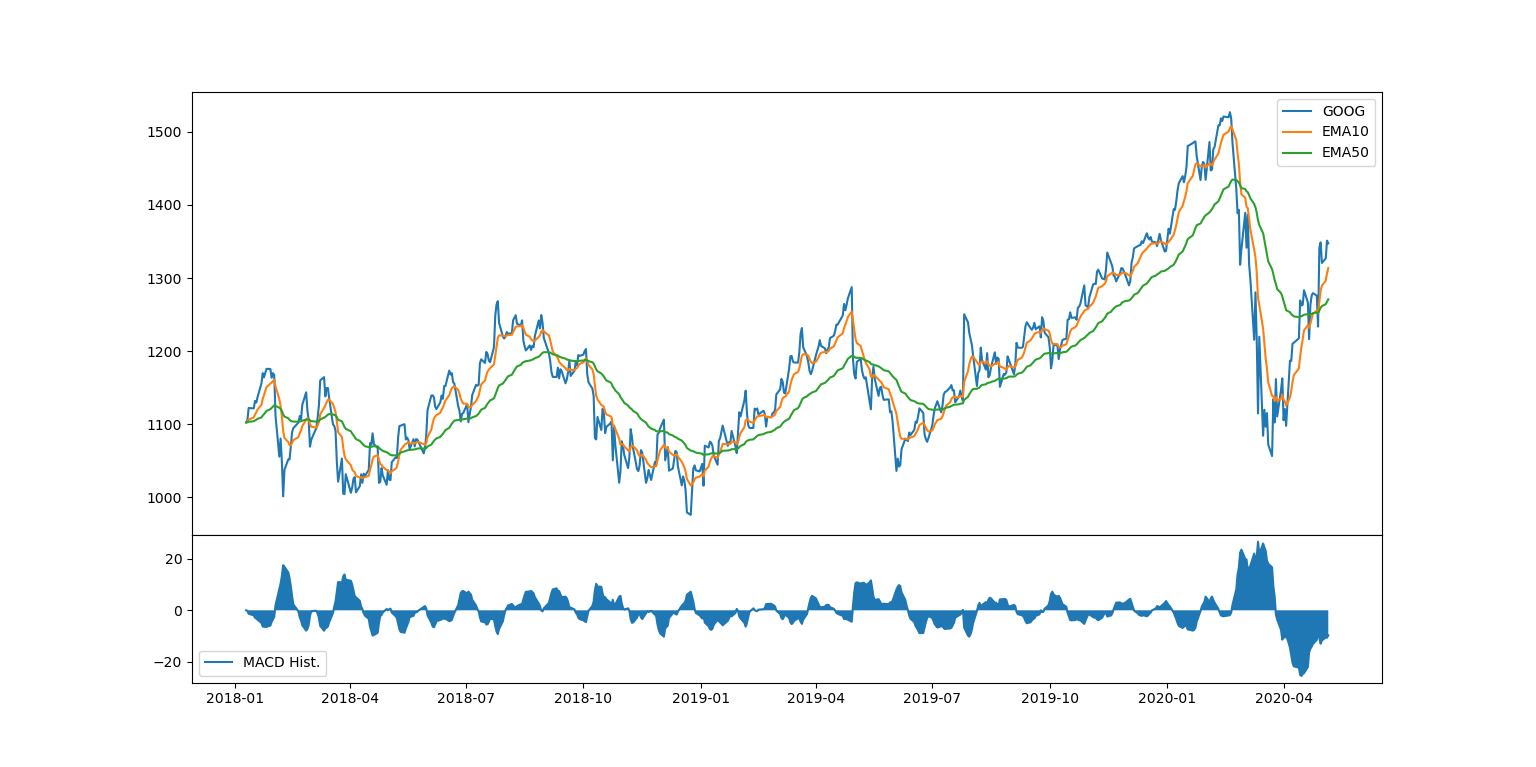
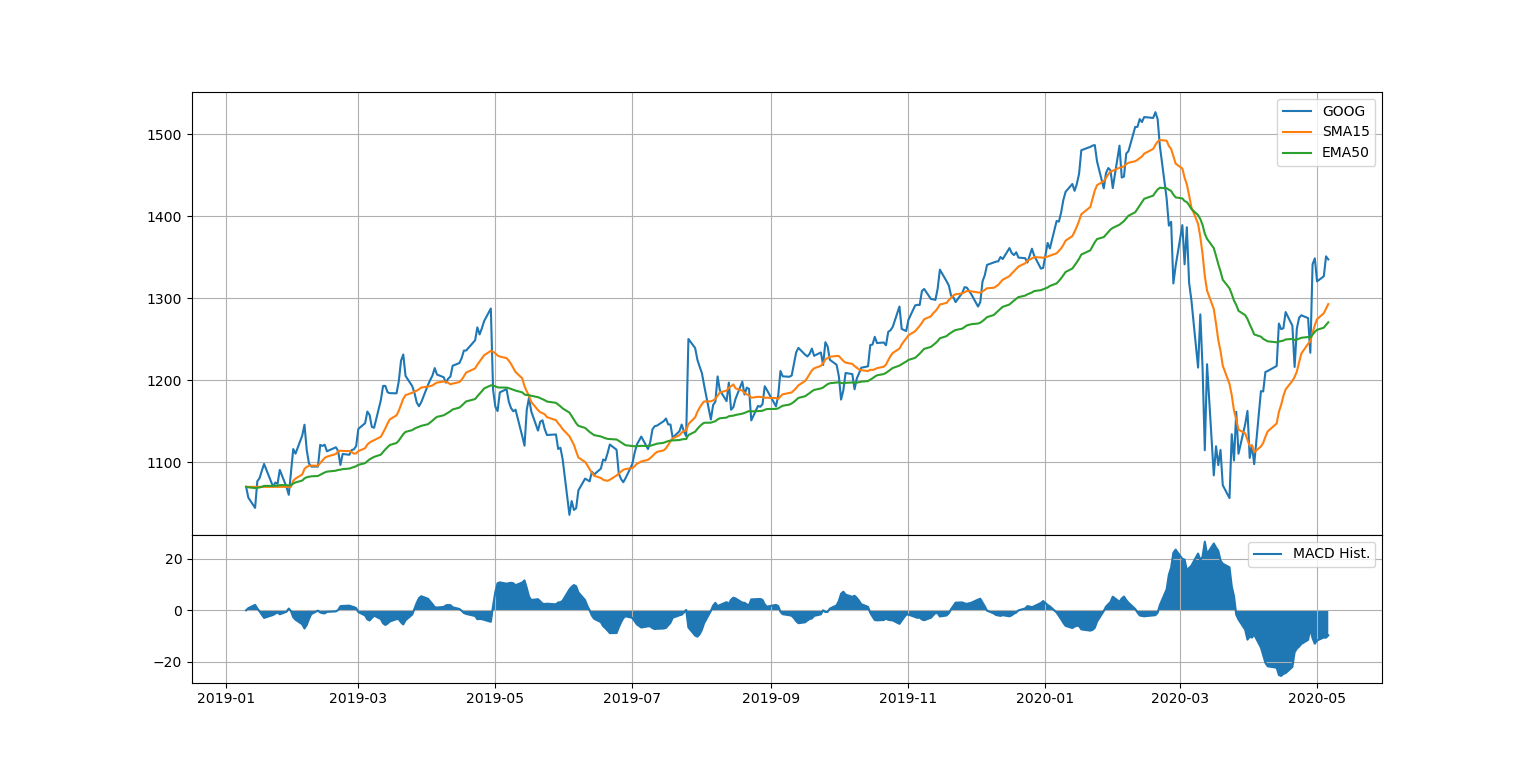
Add files via upload

diff --git a/StockViewer.py b/StockViewer.py
@@ -128,18 +128,19 @@ class view:
 
          fig, (ax1, ax2) = plt.subplots(2, 1, sharex=True, figsize=(6, 6), gridspec_kw={'height_ratios': [3, 1]})
          
-         ax1.plot(self.data.index , self.data['Close'] , '-' , label=self.stock)
+         ax1.plot(self.data.index , self.data['Close'] , label=self.stock)
 
          for i in self.plotsSMA:
 
-            ax1.plot(self.data.index , self.data[i] , '-' , label=i.upper())
+            ax1.plot(self.data.index , self.data[i] , label=i.upper())
 
          for i in self.plotsEMA:
 
-            ax1.plot(self.data.index , self.data[i] , '-' , label=i.upper())
+            ax1.plot(self.data.index , self.data[i] , label=i.upper())
 
 
          ax1.legend()
+         ax1.grid()
 
          
          if self.parallelGraph == 'macd':
@@ -156,7 +157,8 @@ class view:
             
                   ax2.plot(self.data.index, self.data[self.parallelGraph], label='Var%')
 
-         ax2.legend()
+         ax2.legend()         
+         ax2.grid()
 
       else:
 
@@ -172,7 +174,8 @@ class view:
 
 
          plt.legend()
-      
+         plt.grid()
+
       plt.show()
 
 

diff --git a/Example.py b/Example.py
@@ -3,7 +3,7 @@ from StockViewer import view
 
 #Dependencies: yfinance, pandas, matplotlib 
 
-googleStock = view("GOOG", "2018-01-10" , "2020-05-07") # Creates an analysis, from 2018-11-01 to 2020-04-21
+googleStock = view("GOOG", "2019-01-10" , "2020-05-07") # Creates an analysis, from 2018-11-01 to 2020-04-21
 
 # Variation in %
 #googleStock.VAR()
@@ -15,10 +15,10 @@ googleStock = view("GOOG", "2018-01-10" , "2020-05-07") # Creates an analysis, f
 googleStock.MACDhistogram()
 
 # SMA - Simple moving average
-#googleStock.SMA(15) # Creates SMA of 15 days
+googleStock.SMA(15) # Creates SMA of 15 days
 
 # EMA - Exponential moving average
-googleStock.EMA(10)  # Creates EMA of 10 days
+#googleStock.EMA(10)  # Creates EMA of 10 days
 
 # EMA - Exponential moving average
 googleStock.EMA(50)  # Creates EMA of 50 days
